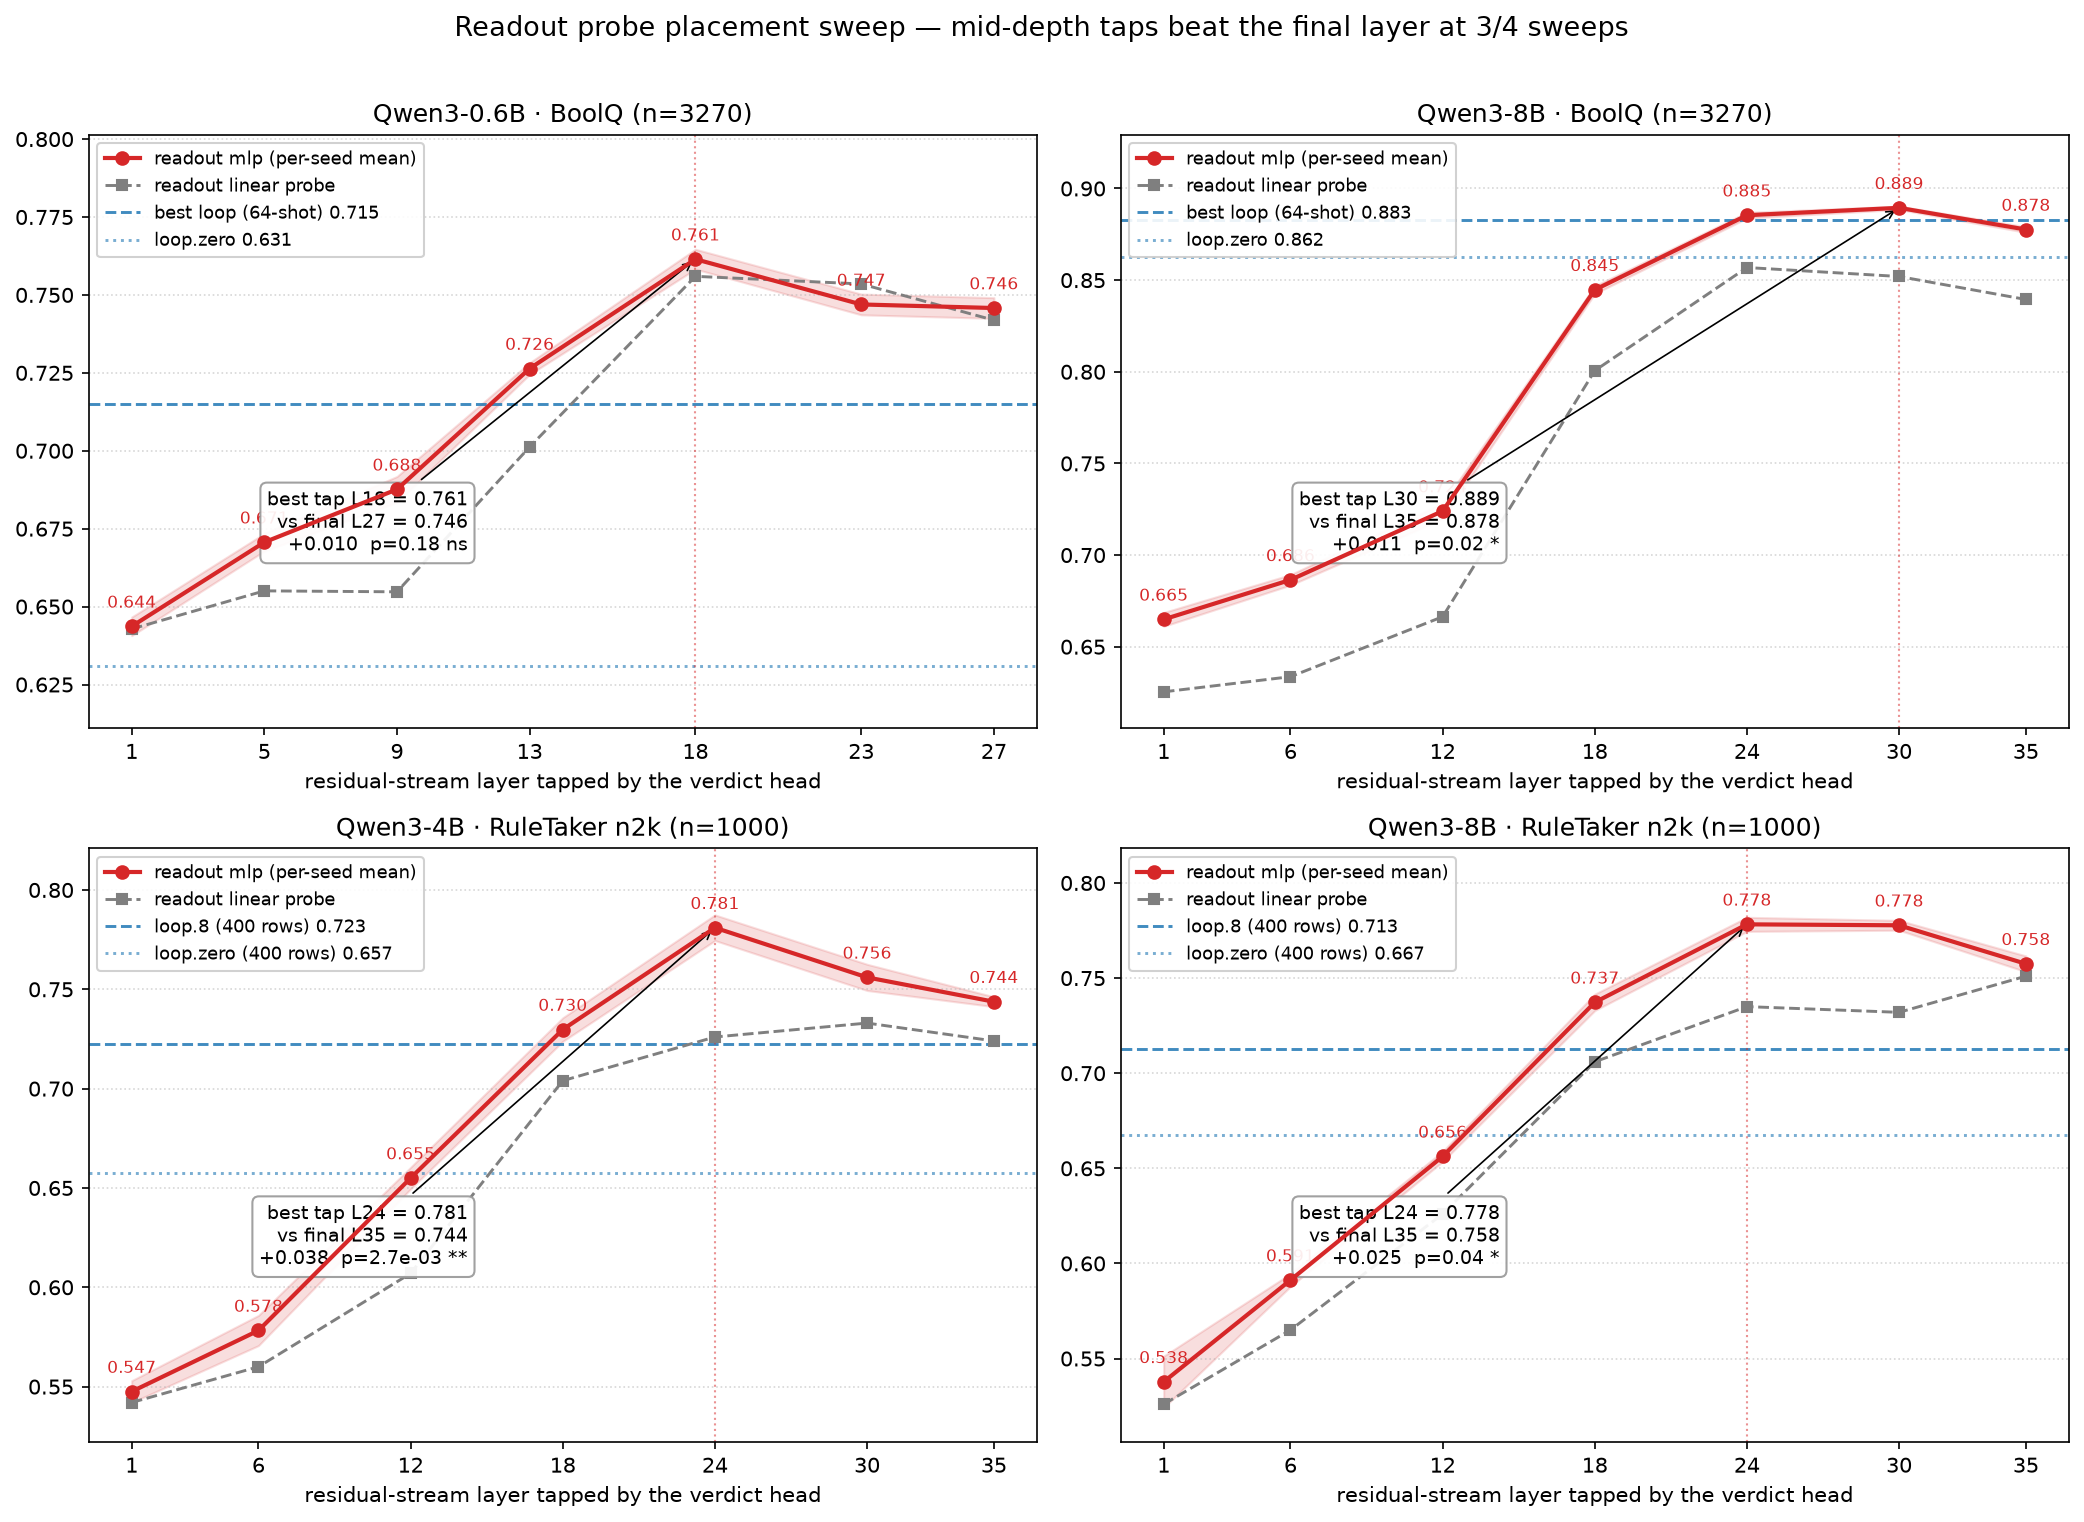
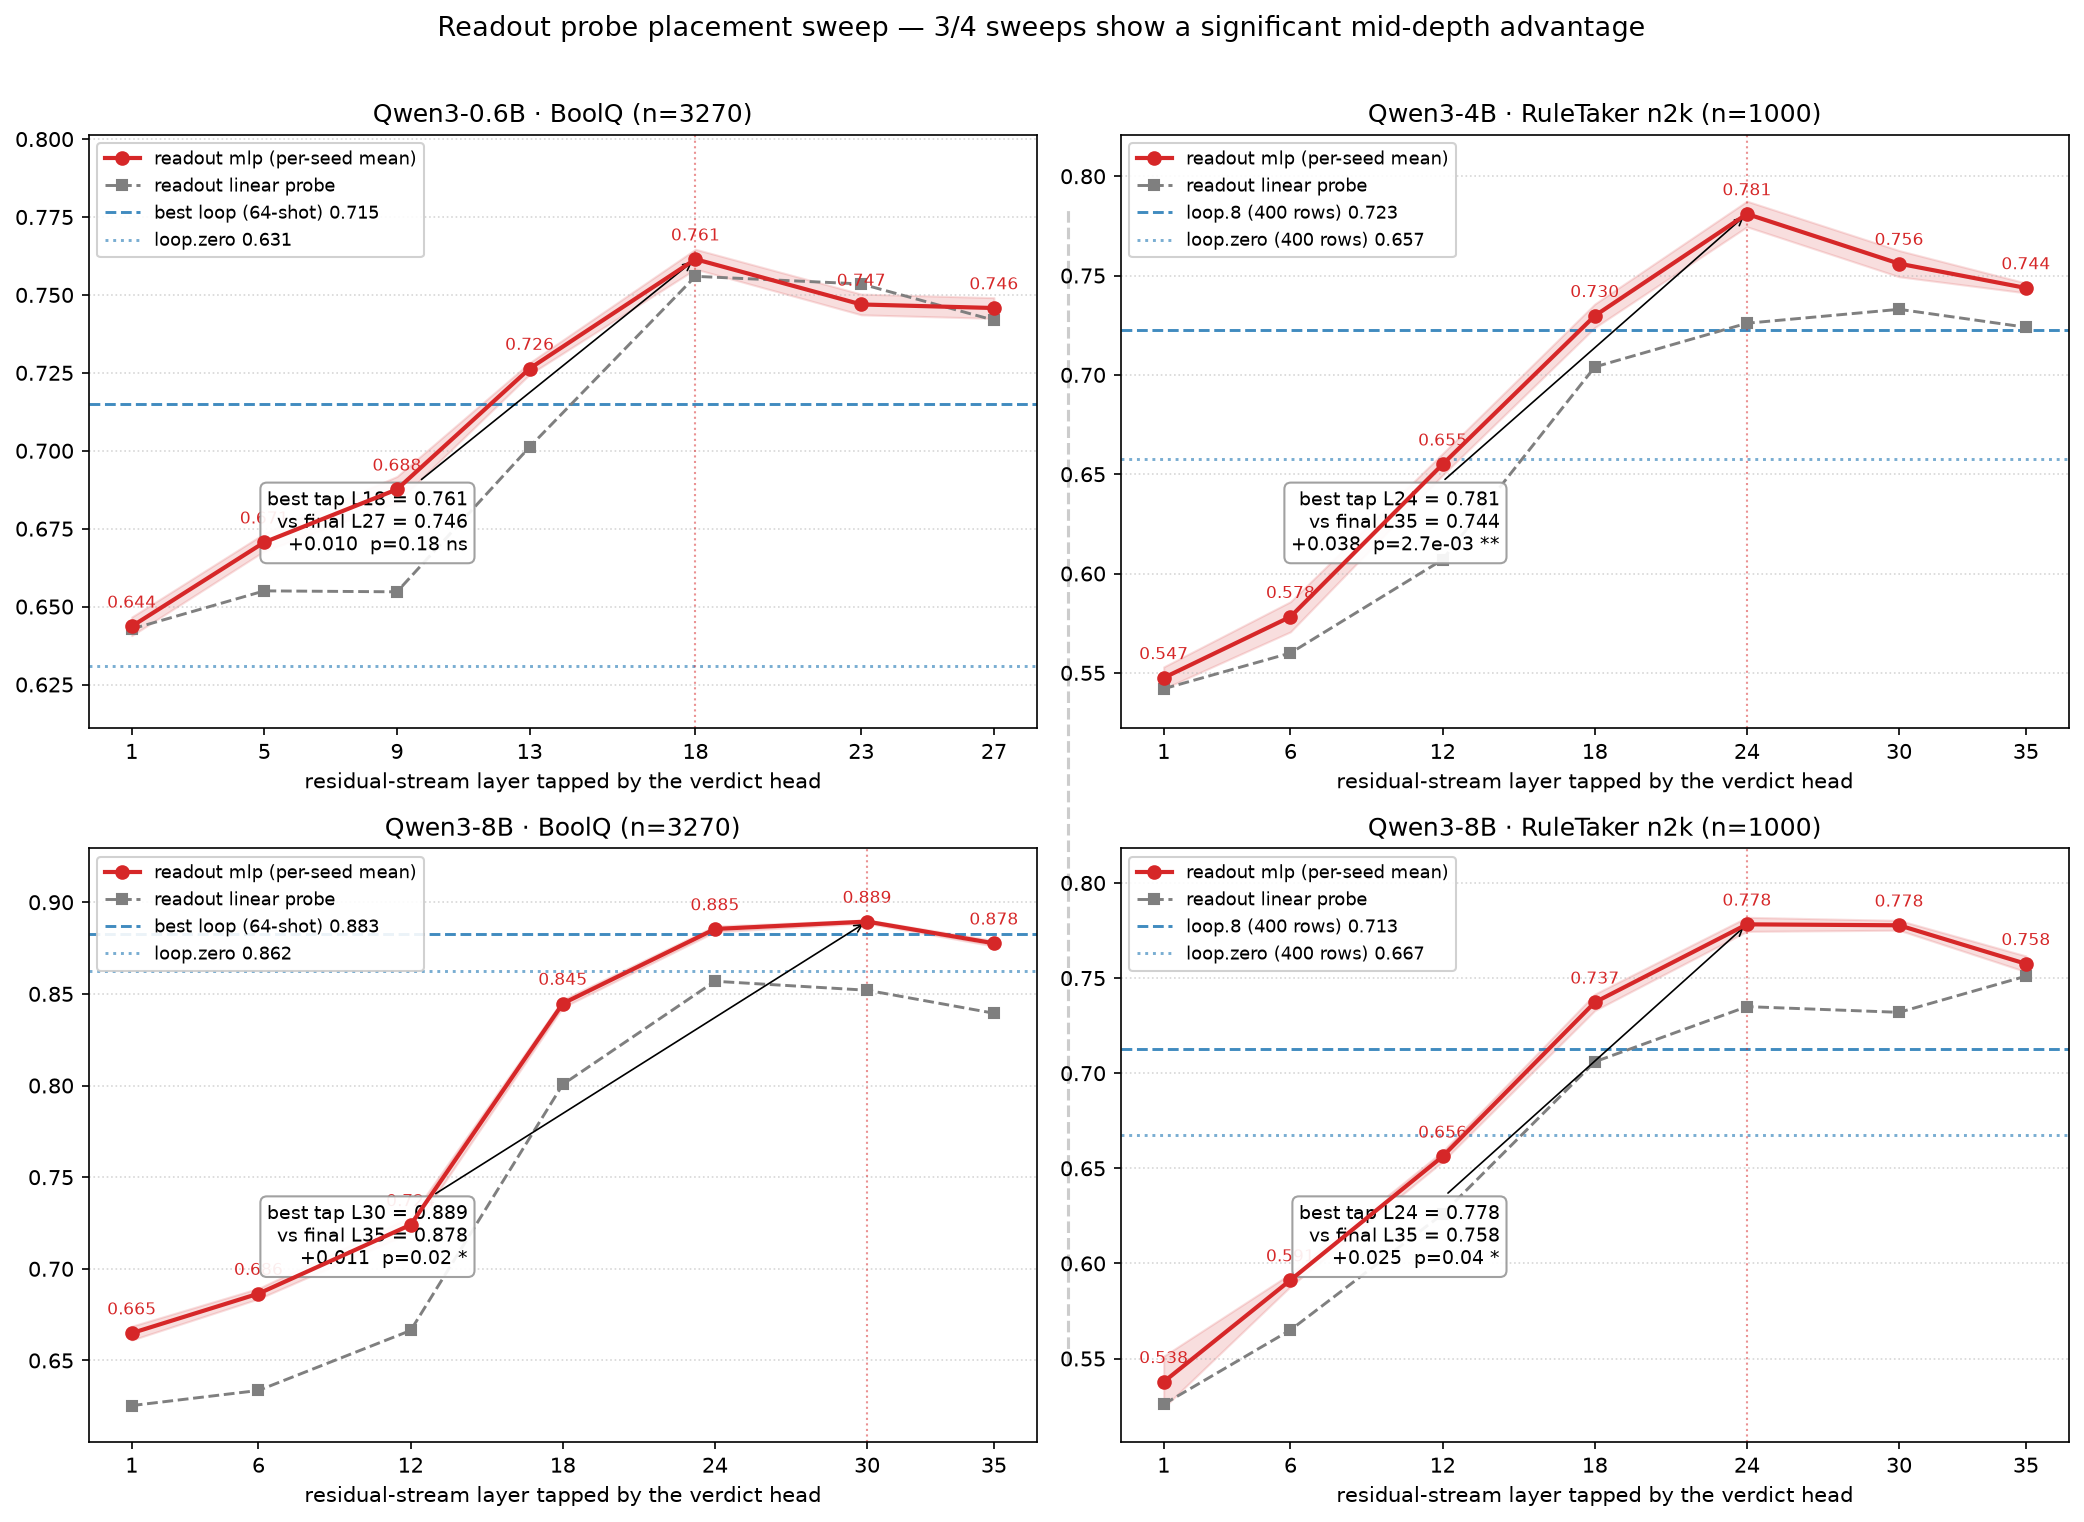
Layer-sweep figure: task-in-columns (BoolQ | RuleTaker), faint vertical divider
Reorder 2x2 panels to BoolQ left column (0.6B/8B) and RuleTaker right column
(4B/8B), with a faint dashed vertical split at the column gap.

diff --git a/plot_layersweep.py b/plot_layersweep.py
@@ -24,18 +24,22 @@ COL_LIN = "#7f7f7f"
 COL_LOOP = "#1f77b4"
 
 PANELS = [
+    # left column: BoolQ
     dict(run="results/boolq_layersweep_06b.json",
          paired="results/boolq_layersweep_06b_paired.json",
          title="Qwen3-0.6B · BoolQ (n=3270)",
          loop_refs=[("loop.64", "best loop (64-shot)"), ("loop.zero", "loop.zero")]),
-    dict(run="results/boolq_layersweep_8b.json",
-         paired="results/boolq_layersweep_8b_paired.json",
-         title="Qwen3-8B · BoolQ (n=3270)",
-         loop_refs=[("loop.64", "best loop (64-shot)"), ("loop.zero", "loop.zero")]),
+    # right column: RuleTaker
     dict(run="results/ruletaker_layersweep_4b.json",
          paired="results/ruletaker_layersweep_4b_paired.json",
          title="Qwen3-4B · RuleTaker n2k (n=1000)",
          loop_refs=[("loop.8", "loop.8 (400 rows)"), ("loop.zero", "loop.zero (400 rows)")]),
+    # left column: BoolQ
+    dict(run="results/boolq_layersweep_8b.json",
+         paired="results/boolq_layersweep_8b_paired.json",
+         title="Qwen3-8B · BoolQ (n=3270)",
+         loop_refs=[("loop.64", "best loop (64-shot)"), ("loop.zero", "loop.zero")]),
+    # right column: RuleTaker
     dict(run="results/ruletaker_layersweep_8b.json",
          paired="results/ruletaker_layersweep_8b_paired.json",
          title="Qwen3-8B · RuleTaker n2k (n=1000)",
@@ -104,13 +108,28 @@ for ax, cfg in zip(axes.flat, PANELS):
     ax.set_ylim(lo, mlp.max() + 0.04)
     ax.grid(True, axis="y", ls=":", alpha=0.5)
 
-# Shared legends per task row
+# Shared legends per task column
 axes[0, 0].legend(fontsize=8.5, loc="upper left", framealpha=0.9)
 axes[0, 1].legend(fontsize=8.5, loc="upper left", framealpha=0.9)
 axes[1, 0].legend(fontsize=8.5, loc="upper left", framealpha=0.9)
 axes[1, 1].legend(fontsize=8.5, loc="upper left", framealpha=0.9)
 
-fig.suptitle("Readout probe placement sweep — mid-depth taps beat the final layer at 3/4 sweeps",
+# Faint vertical split between BoolQ (left) and RuleTaker (right) columns
+fig.canvas.draw()  # resolve positions
+if hasattr(fig.canvas, "get_renderer"):
+    r = fig.canvas.get_renderer()
+else:
+    r = fig.canvas.renderer
+b0 = axes[0, 0].get_position()   # left-column top
+b1 = axes[0, 1].get_position()   # right-column top
+b3 = axes[1, 1].get_position()   # right-column bottom
+x_mid = (b0.x1 + b1.x0) / 2      # gap centre
+line = plt.Line2D([x_mid, x_mid], [b3.y0, b0.y1],
+                  transform=fig.transFigure, color="0.5", lw=1.5, ls="--",
+                  alpha=0.4, zorder=0)
+fig.add_artist(line)
+
+fig.suptitle("Readout probe placement sweep — 3/4 sweeps show a significant mid-depth advantage",
              fontsize=13, y=1.01)
 fig.tight_layout()
 fig.savefig("layersweep_placement.png", dpi=150, bbox_inches="tight")
